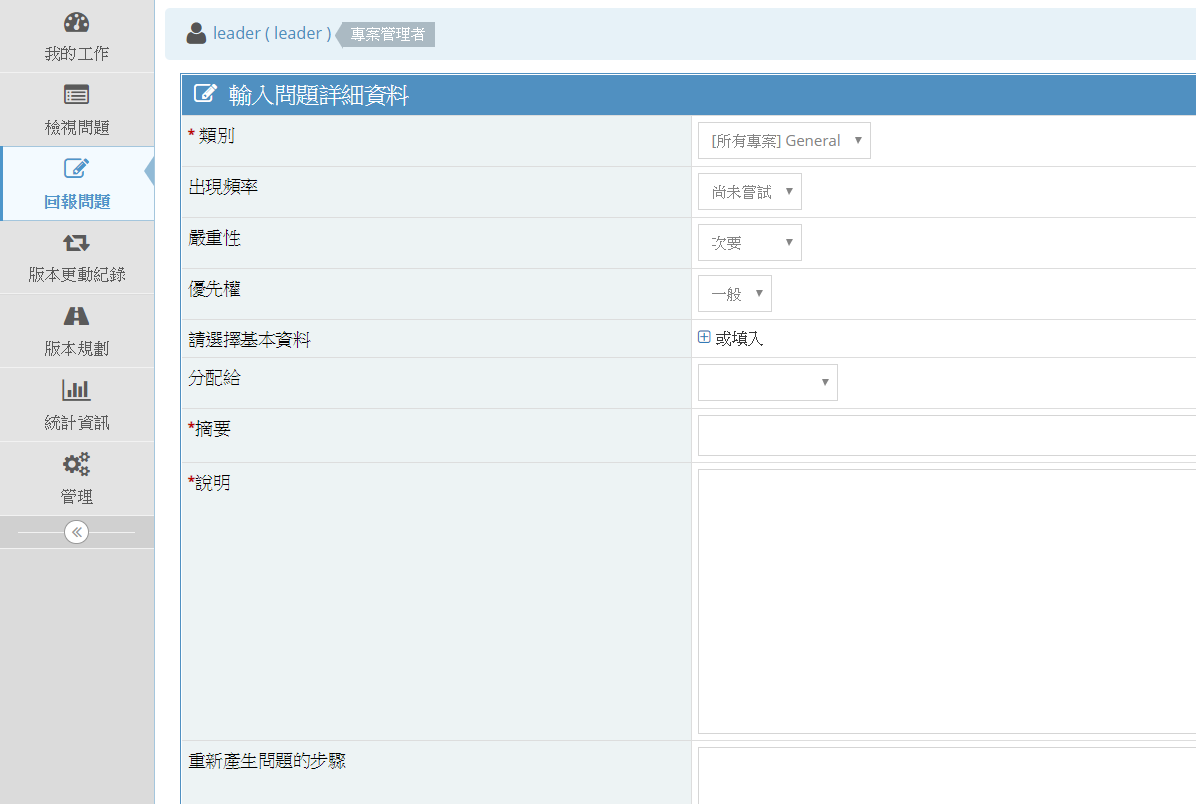
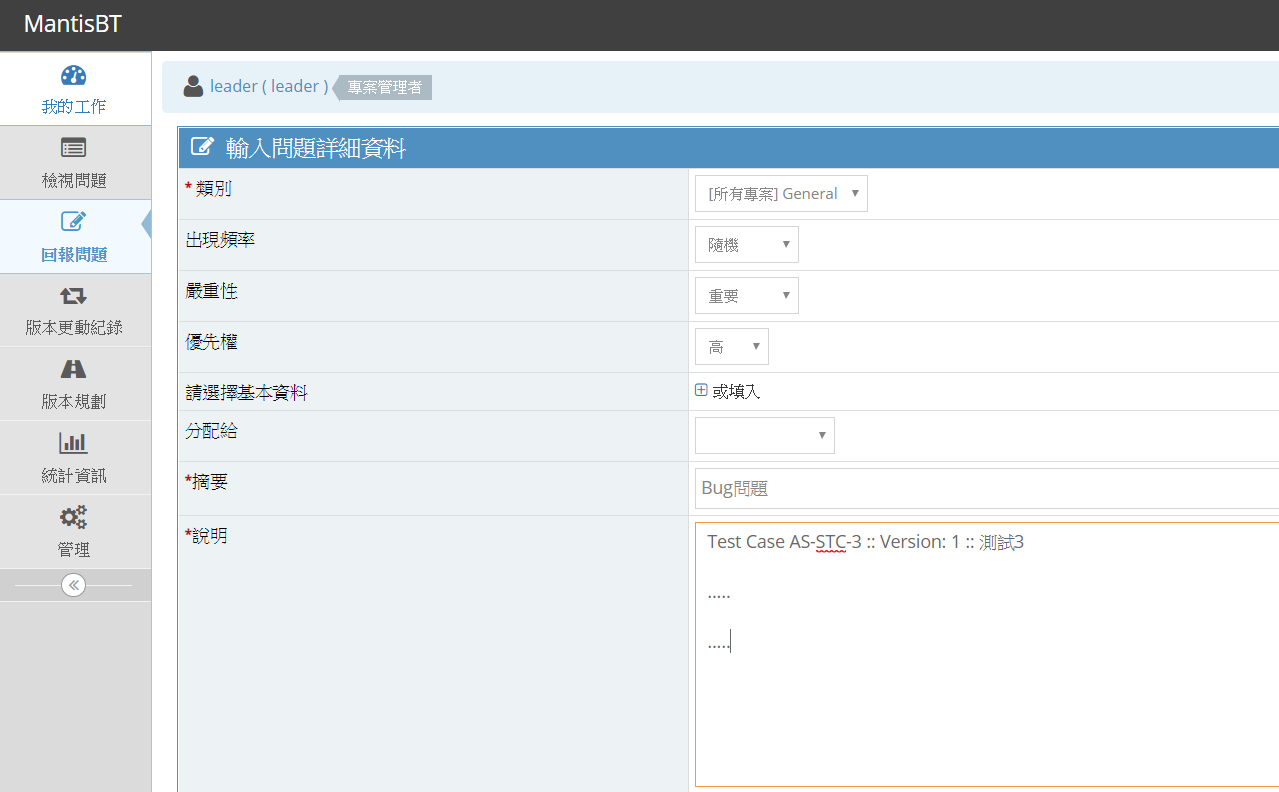
commit

diff --git a/index.html b/index.html
@@ -221,8 +221,9 @@
 
 		      <section>
 		        <section><h2>8.&nbsp;&nbsp;&nbsp;觀看報告</h2></section>
+
 		        <section>
-		        	<h3>Test Reports</h3>
+		        	<h3>觀看報告</h3>
 		        	<img src="image/8-1.png"><br>
 		        	<span style="font-size: 86%;">輸出測試報告：Test Reports and Metrics</span><br>
 		        	<span style="font-size: 86%;">輸出需求報告：Generate Requirement Specification Document</span>
@@ -230,6 +231,26 @@
 		        		測試報告要輸出與需求的結合要勾選Test Case related Requirements
 		        	</aside>
 		        </section>
+		        	
+		        <section>
+		        	<h3>測試報告-1</h3>
+		        	<img src="image/8-2.png" width="80%" height="80%"><br>
+		        	<span>Test Case related Requirements打勾</span>
+		        </section>
+
+		        <section>
+		        	<h3>測試報告-2</h3>
+		        	<img src="image/8-3.png"><br>
+		        	<span>複製圓餅圖貼到生成之Word檔</span>
+		        </section>
+
+		        <section>
+		        	<h3>測試報告-3</h3>
+		        	<img src="image/8-4.png" width="80%" height="80%">
+		        </section>
+
+
+
 		      </section>
 
 
@@ -265,14 +286,14 @@
 
 		      <section>
 		      	<h3>回報問題</h3>
-		      	<img src="image/mantis-3.png">
+		      	<img src="image/mantis-3.png" width="80%" height="80%"><br>
+		      	<span>說明請填入失敗Test case之編號及相關描述</span>
 		      </section>
 
 
 		      <section>
 		      	<h3>分配問題之負責人</h3>
 		      	<img src="image/mantis-4.png"><br>
-		      	<span>存取權限選開發者</span>
 		      </section>
 
 
@@ -287,6 +308,38 @@
 		      	<img src="image/mantis-6.png"><br>
 		      	<span>更改狀態：　已確認、已解決．．．</span>
 		      </section>
+
+
+		      <section>
+		      	<section>
+		      		<h2>testlink + mantis 問題紀錄</h2>
+		      	</section>
+
+		      	<section>
+			      <h3>Testlink之Test case測試失敗</h3>
+			      <img src="image/bugtracker-1.png">
+			    </section>
+
+			    <section>
+			      <h3>到mantis記錄問題</h3>
+			      <img src="image/mantis-3.png" width="80%" height="80%"><br>
+			      <span>說明請填入失敗Test case之編號及相關描述</span>
+			    </section>
+
+			    <section>
+			    	<h3>Test case紀錄mantis URL</h3>
+			    	<img src="image/bugtracker-2.png" width="80%" height="80%">
+			    </section>
+
+			    <section>
+			    	<h3>Test case紀錄mantis URL</h3>
+			    	<img src="image/bugtracker-3.png" width="80%" height="80%">
+			    </section>
+
+		      </section>
+
+
+		      
 
 
 		      <section><h2>申請帳號</h2></section>
